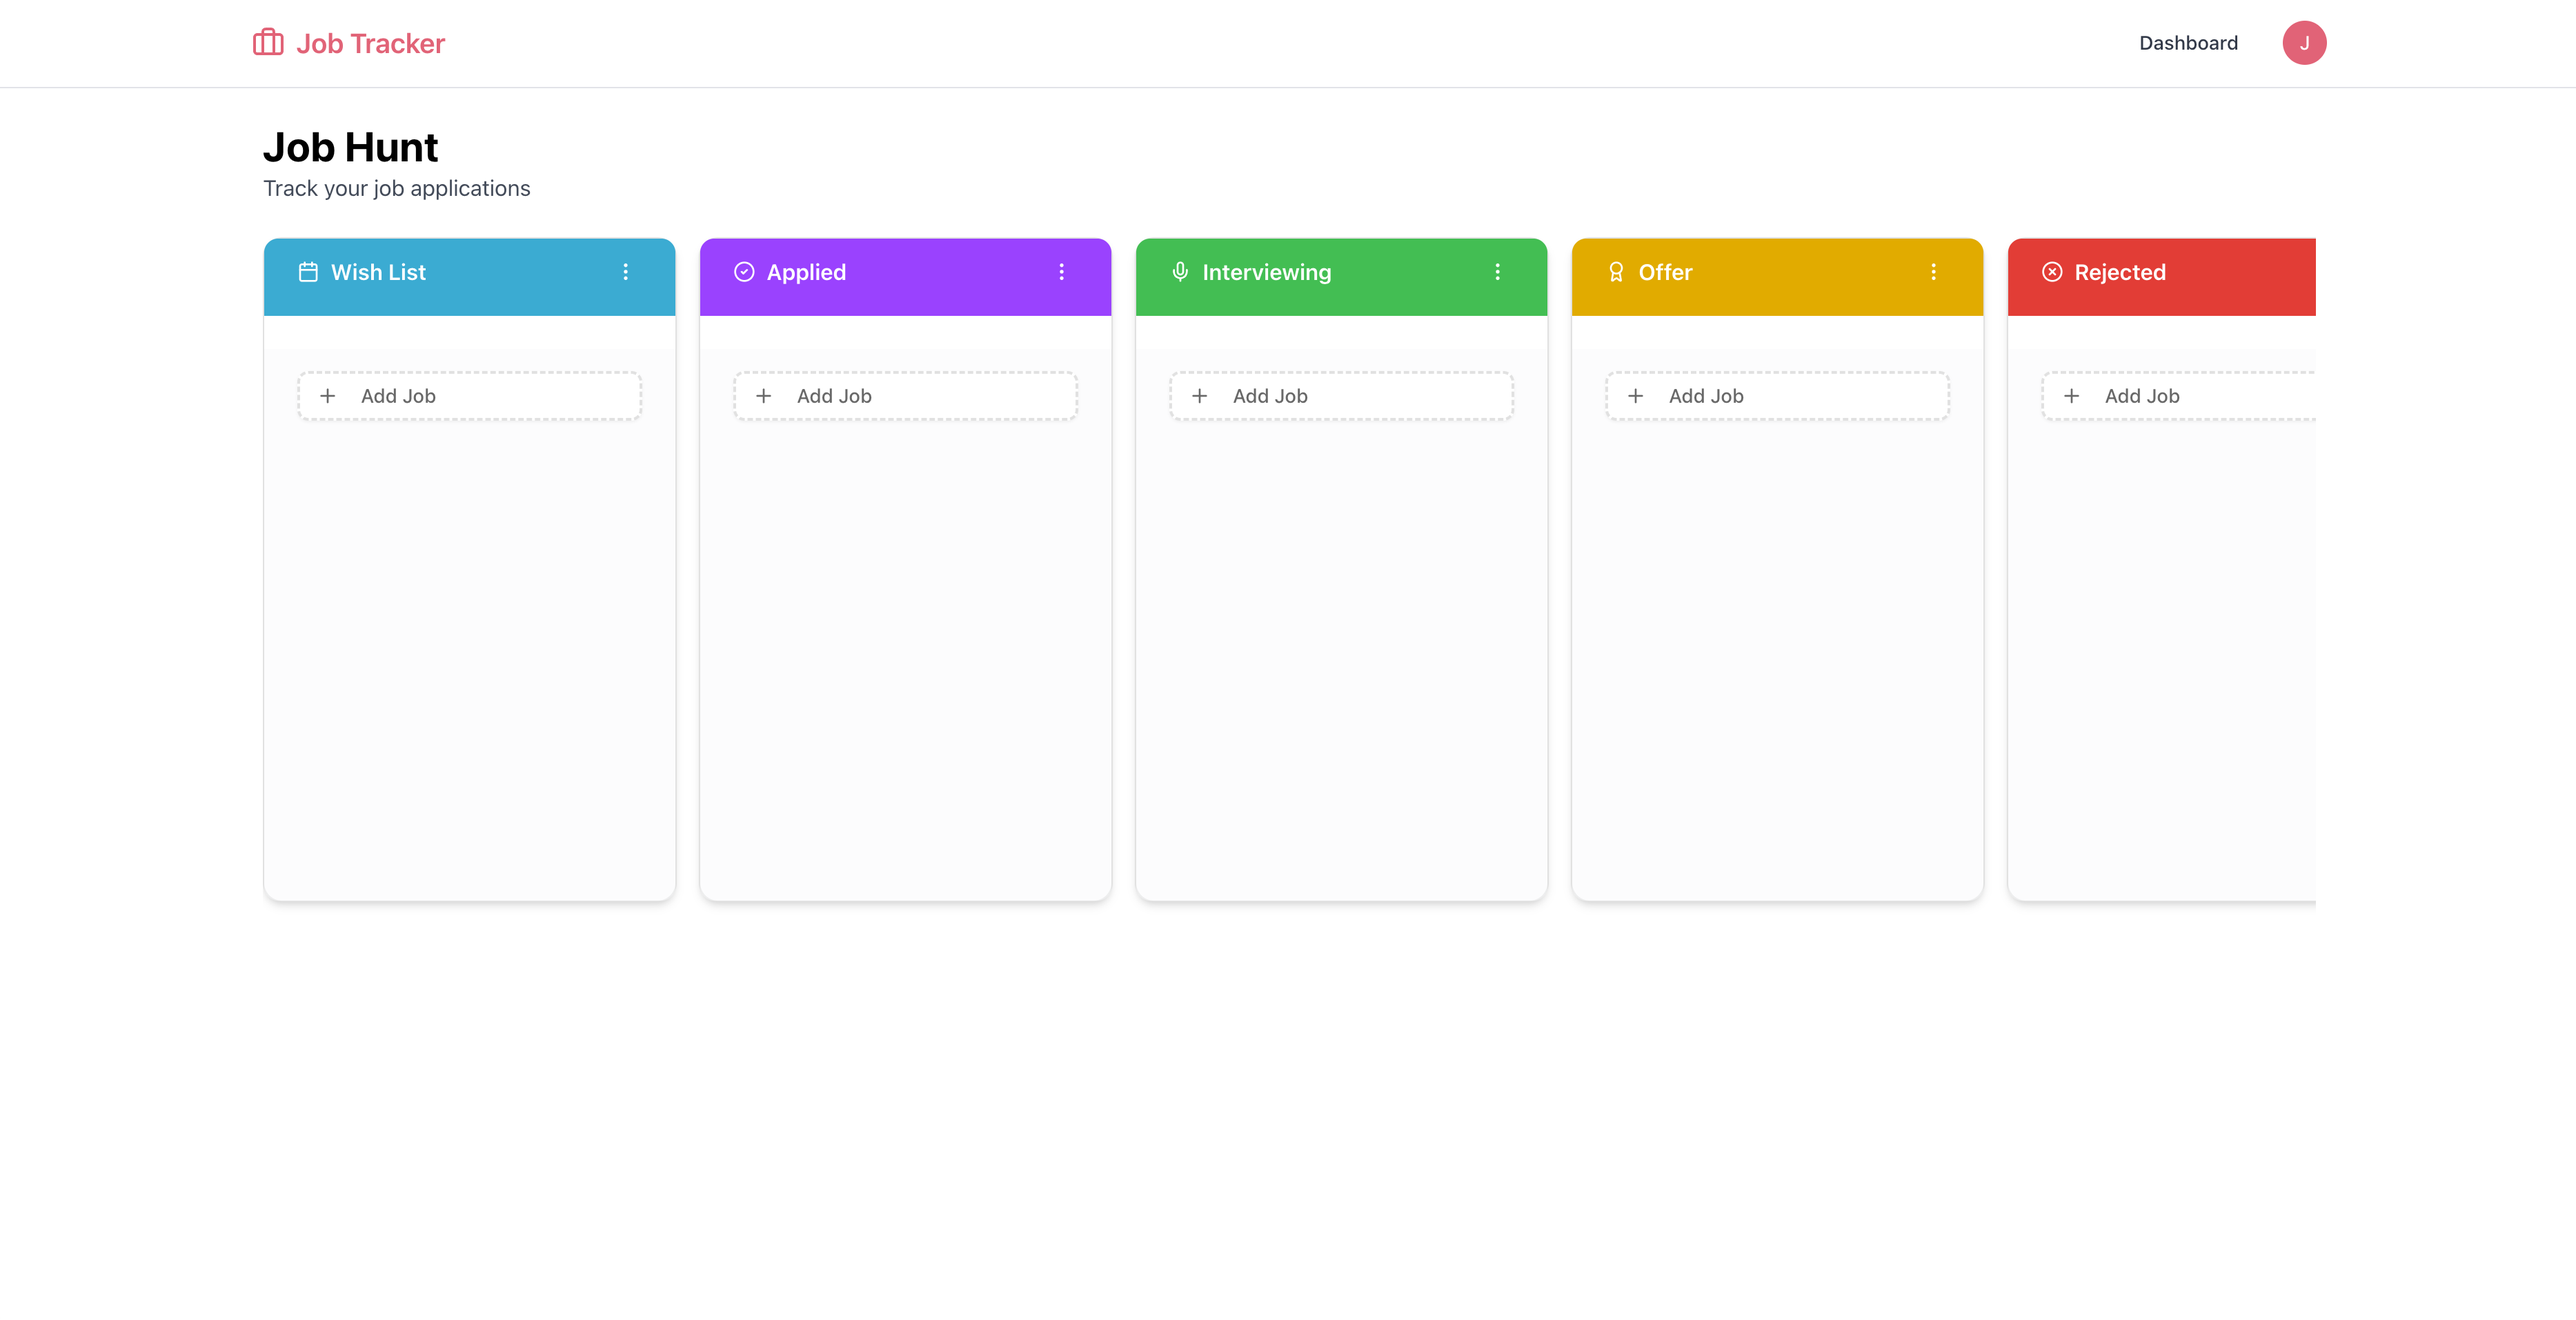
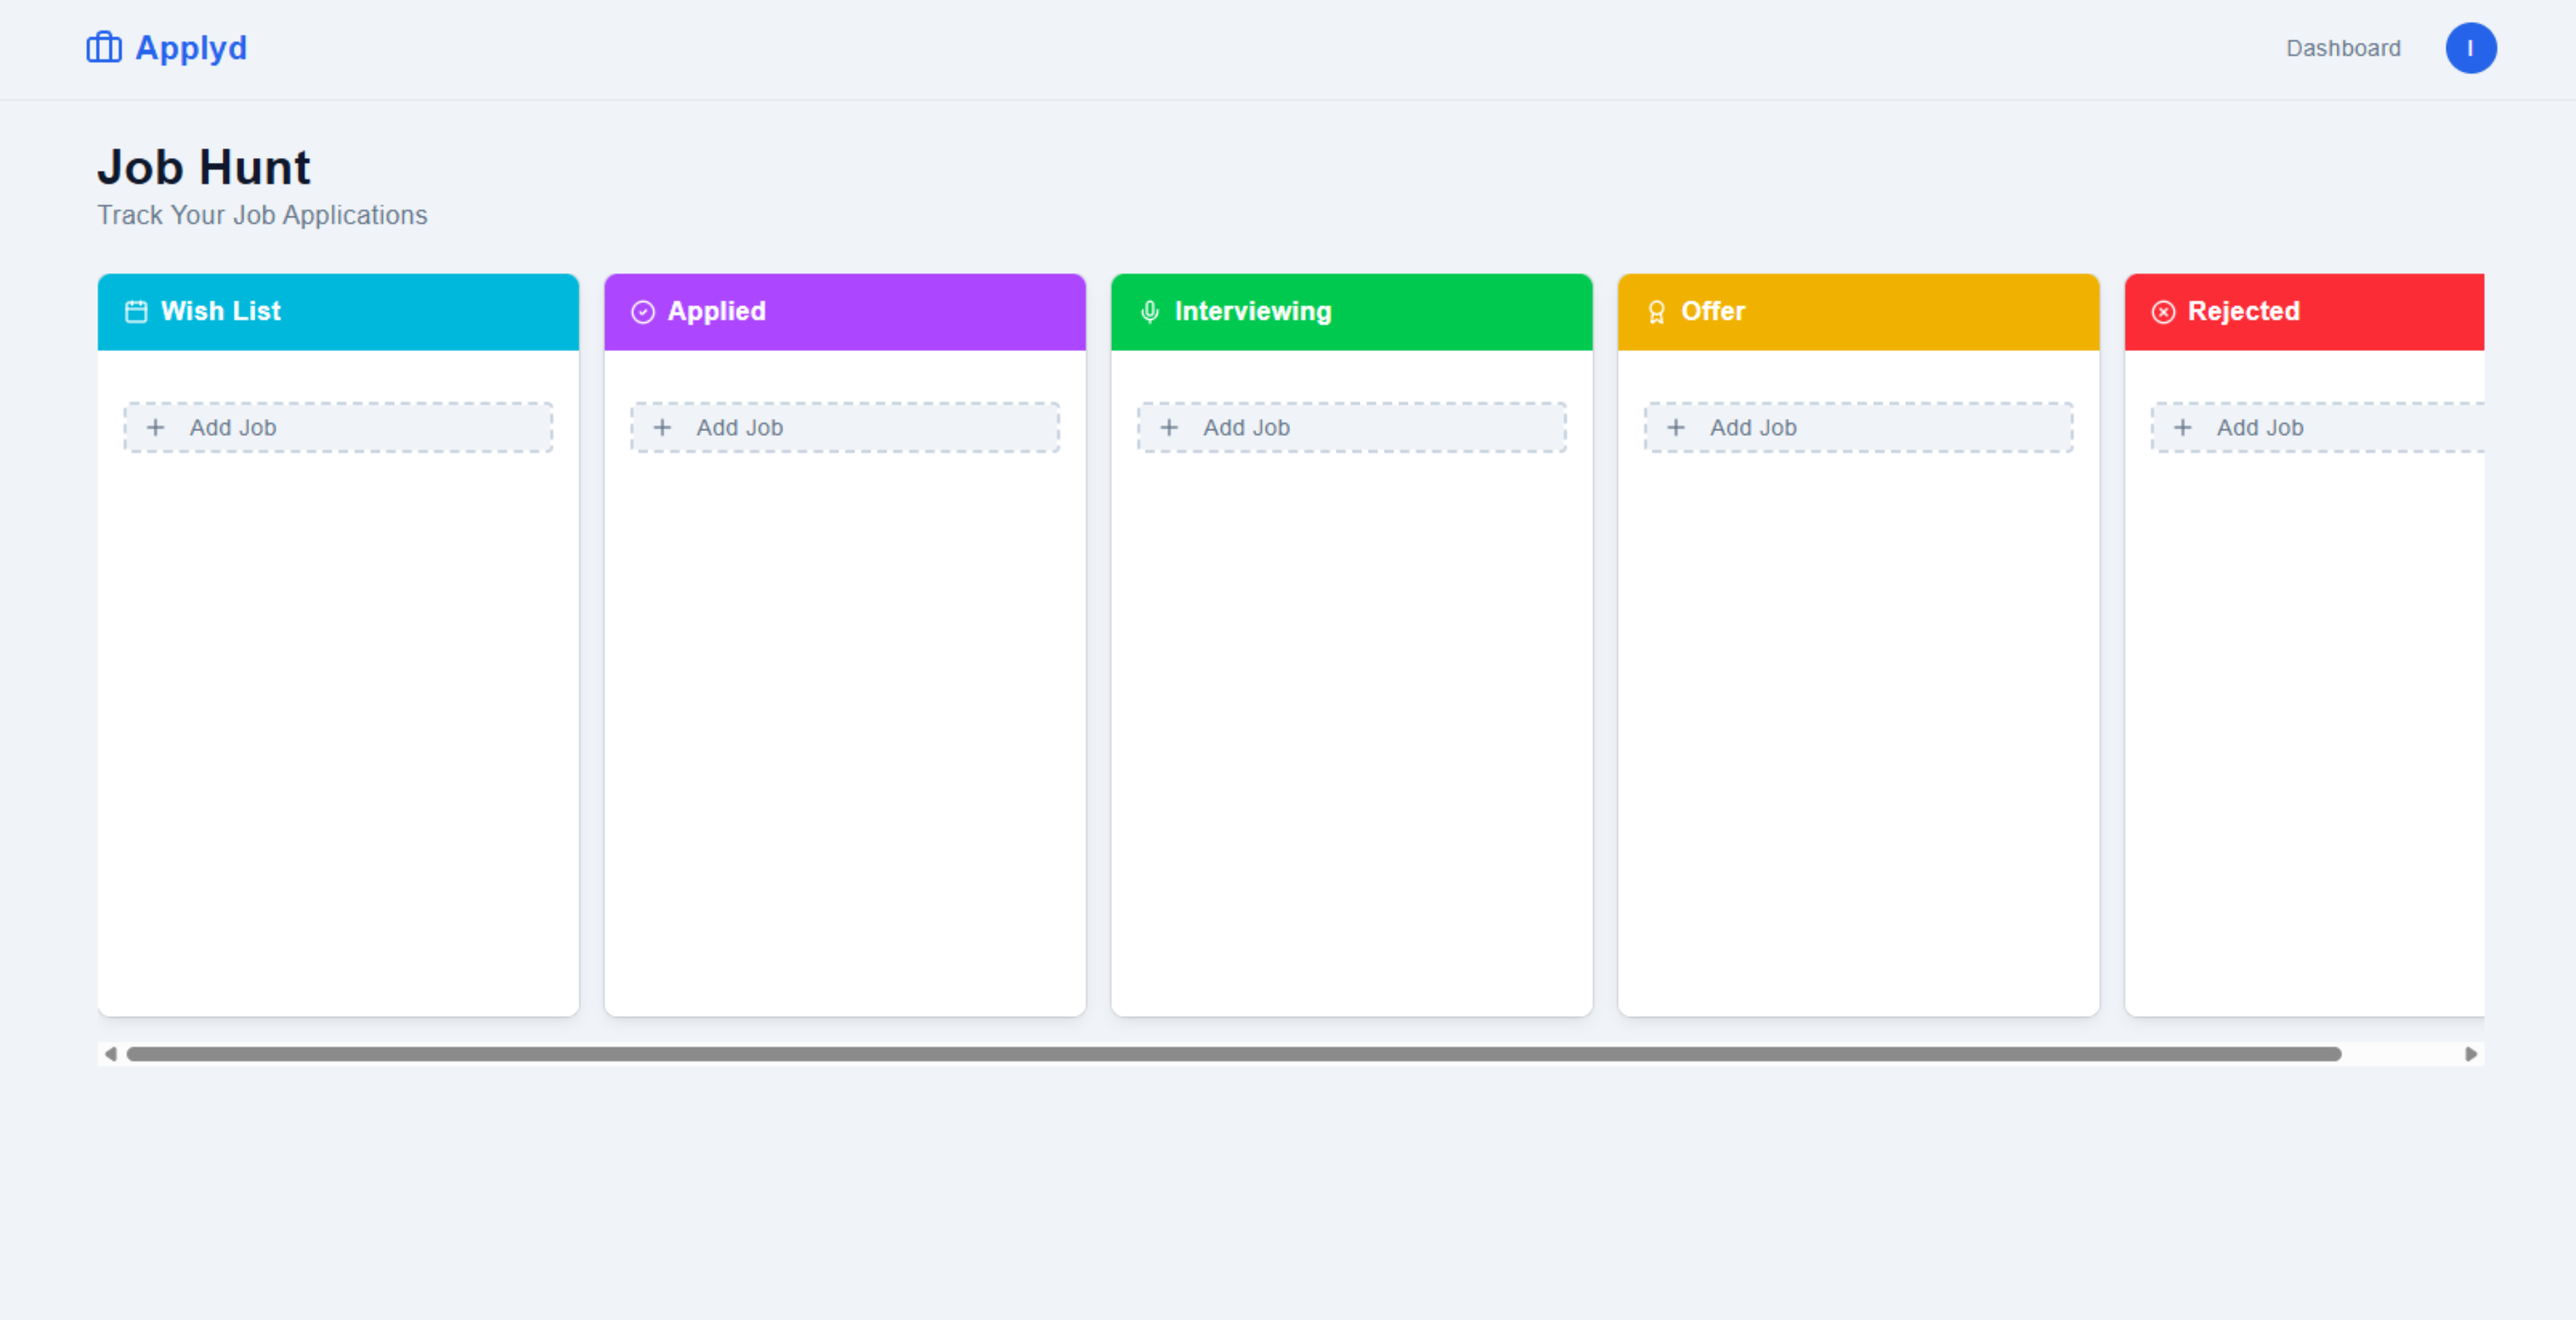
improved UI

diff --git a/components/navbar.tsx b/components/navbar.tsx
@@ -19,7 +19,7 @@ export default function Navbar(){
                 {/* Logo */}
                 <Link href="/" className="flex items-center gap-2 text-xl font-semibold text-primary">
                     <Briefcase/>
-                    Job Tracker
+                    Applyd
                 </Link>
                 {/* Links */}
                 {session?.user 
